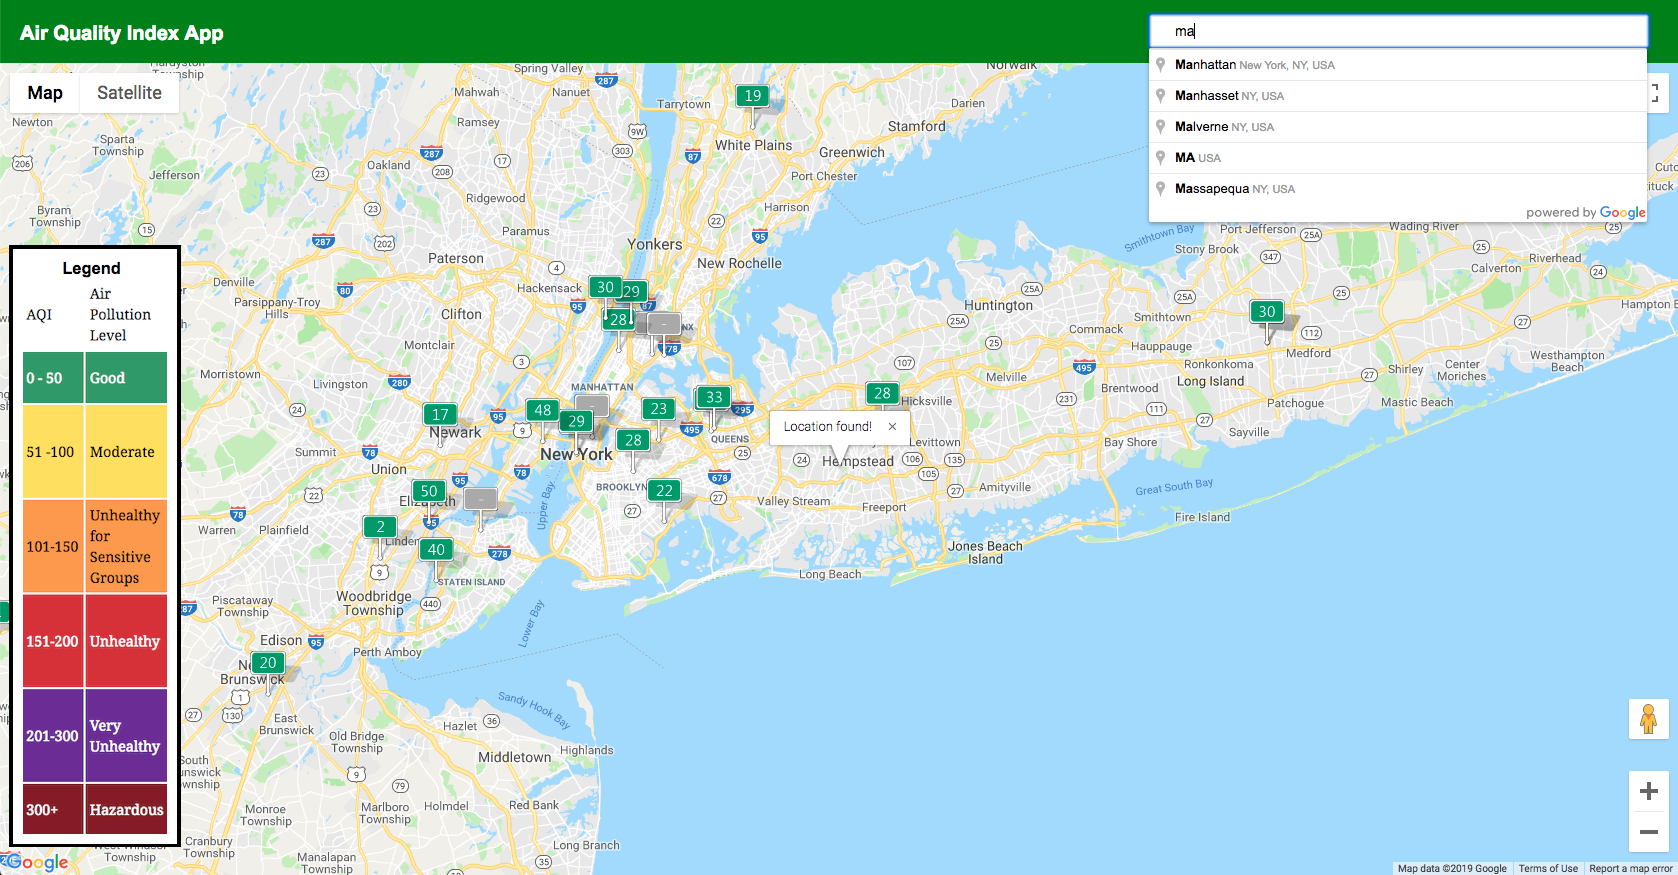
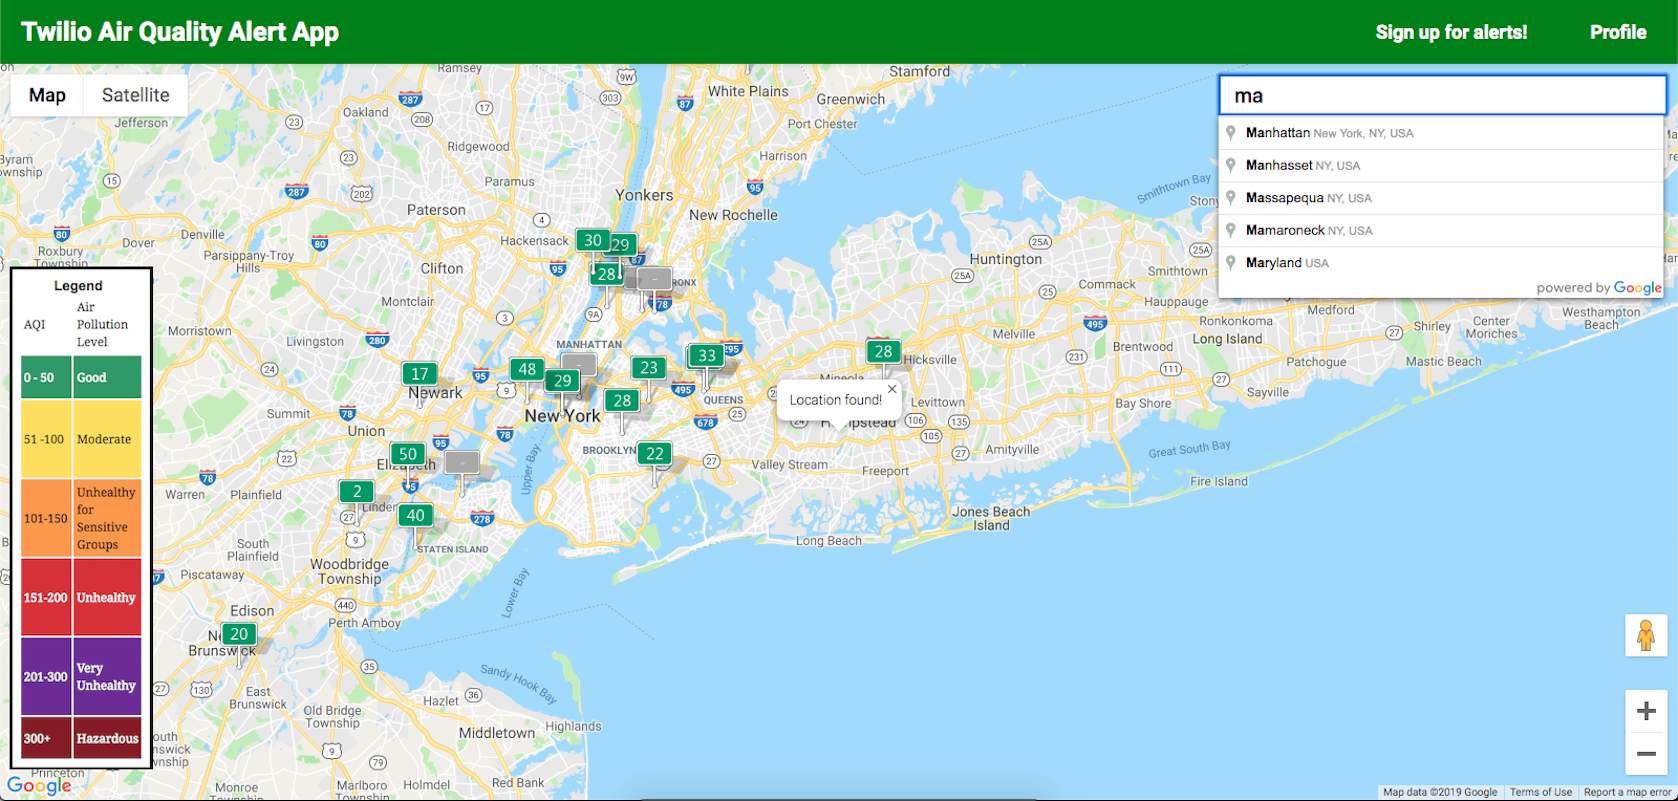
Updated README

diff --git a/README.md b/README.md
@@ -1,6 +1,13 @@
 [![Build Status](https://travis-ci.org/briantam23/twilio-aqi-alert-app.svg?branch=master)](https://travis-ci.org/briantam23/twilio-aqi-alert-app)
+[![Known Vulnerabilities](https://app.snyk.io/test/github/briantam23/twilio-aqi-alert-app/badge.svg?targetFile=package.json)](https://app.snyk.io/test/github/briantam23/twilio-aqi-alert-app?targetFile=package.json)
+[![Dependency Status](https://david-dm.org/briantam23/twilio-aqi-alert-app.svg)](https://david-dm.org/briantam23/twilio-aqi-alert-app)
+[![devDependencies Status](https://david-dm.org/briantam23/twilio-aqi-alert-app/dev-status.svg)](https://david-dm.org/briantam23/twilio-aqi-alert-app?type=dev)
+[![Code Climate](https://codeclimate.com/github/briantam23/twilio-aqi-alert-app/badges/gpa.svg)](https://codeclimate.com/github/briantam23/twilio-aqi-alert-app/)
+
 
 # 🌤 Air Quality Index App w/ Twilio Notifications
+
+![Maps component screenshot](./public/img/open_graph_img.png)
 
 A Single Page App that:
 
@@ -8,7 +15,10 @@ A Single Page App that:
 *  Integrates the Google Maps API with AutoComplete & Geolocation along with the World AQI Map Overlay API in order to display AQIs around the world
 *  Implements Responsive Web Design (RWD) using Media Queries / LESS
 
+![Profile page screenshot](./public/img/profile_page_screenshot.png)
+
 ## Table of contents
+* [Motivation](#motivation)
 * [What is Twilio?](#what-is-twilio?)
 * [Login Credentials](#login-credentials)
 * [Live Demo](#live-demo)
@@ -17,7 +27,11 @@ A Single Page App that:
 * [Installation](#installation)
 * [Running Locally](#running-locally)
 * [Deploying to Heroku](#deploying-to-heroku)
-* [Testing](#testing)
+* [Tests](#tests)
+* [Contact](#contact)
+
+## Motivation
+I wanted to create something useful everyone would use and wanted to utilize the popular Google Maps and AutoComplete API. I thought that, since I use my weather app every morning – why not create a small version of it.
 
 ## What is Twilio?
 The [Twilio Messaging API](https://www.twilio.com/docs/api) makes it easy to send and receive SMS and MMS messages as well as query meta-data about text messages such as delivery status, associated media, and leverage tools like Copilot to manage your messages globally at scale.
@@ -101,16 +115,23 @@ Alternatively, you can deploy your own copy of the app using the web-based flow:
 
 [![Deploy to Heroku](https://www.herokucdn.com/deploy/button.png)](https://heroku.com/deploy)
 
-## Testing
+## Tests
 
 Created Tests for React Components, the Redux Store, Routes, Models, and Functions:
 
-* To run without "watch mode": 
+> To run without "watch mode": 
 ```sh
 npm run test
 ``` 
 
-* To run with "watch mode":
+> To run with "watch mode":
 ```sh
 npm run test:dev
 ```
+
+## Contact
+Created by [Brian Tam](http://briantam23.github.io) - feel free to contact me at [briantam23@gmail.com](mailto:briantam23@gmail.com)!
+
+Personal Website - [briantam23.github.io](briantam23.github.io) <br/>
+LinkedIn - [@briantam23](linkedin.com/in/briantam23) <br/>
+Github - [@briantam23](github.com/briantam23)
